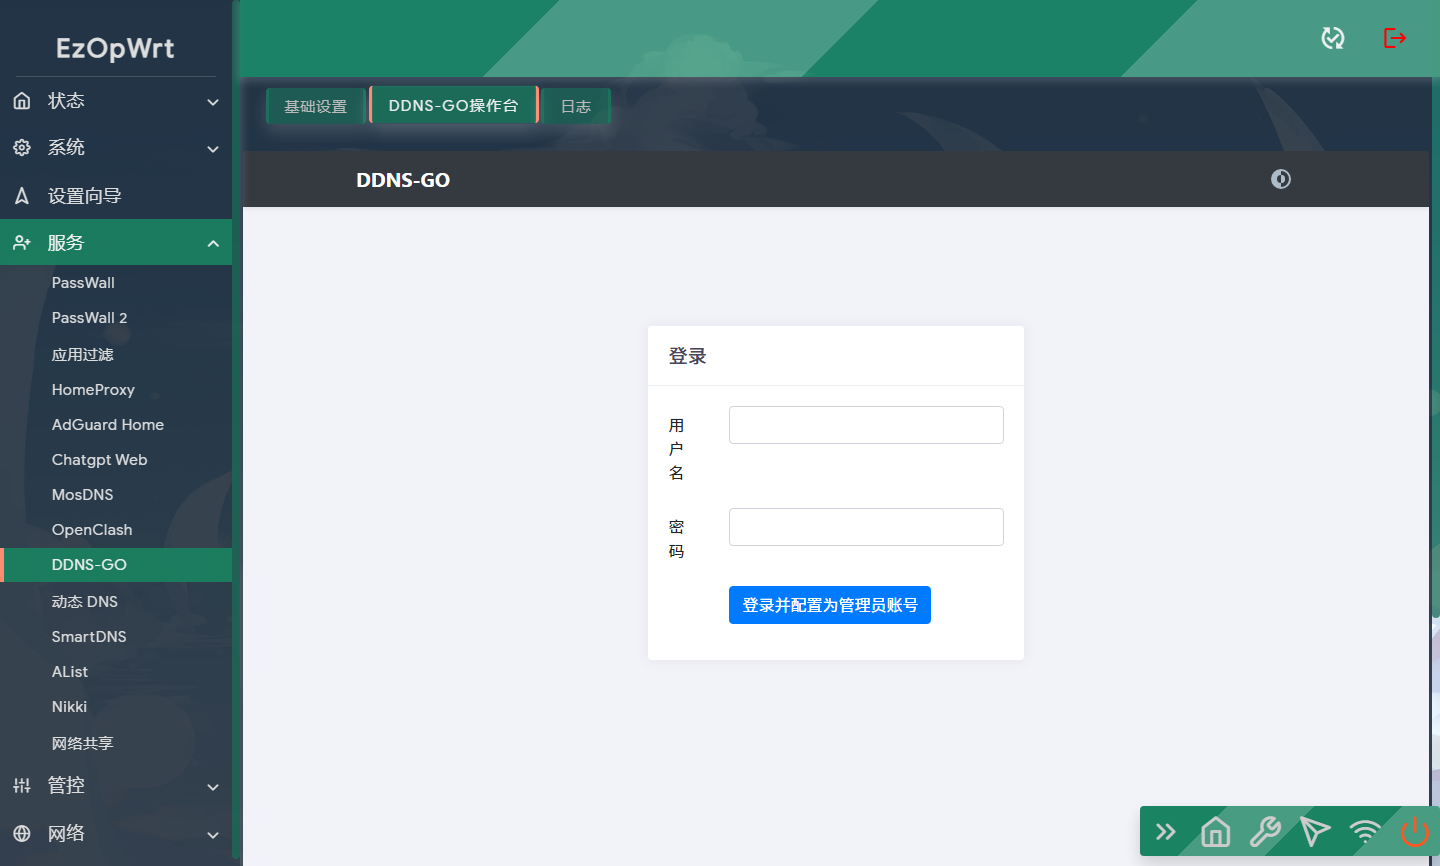
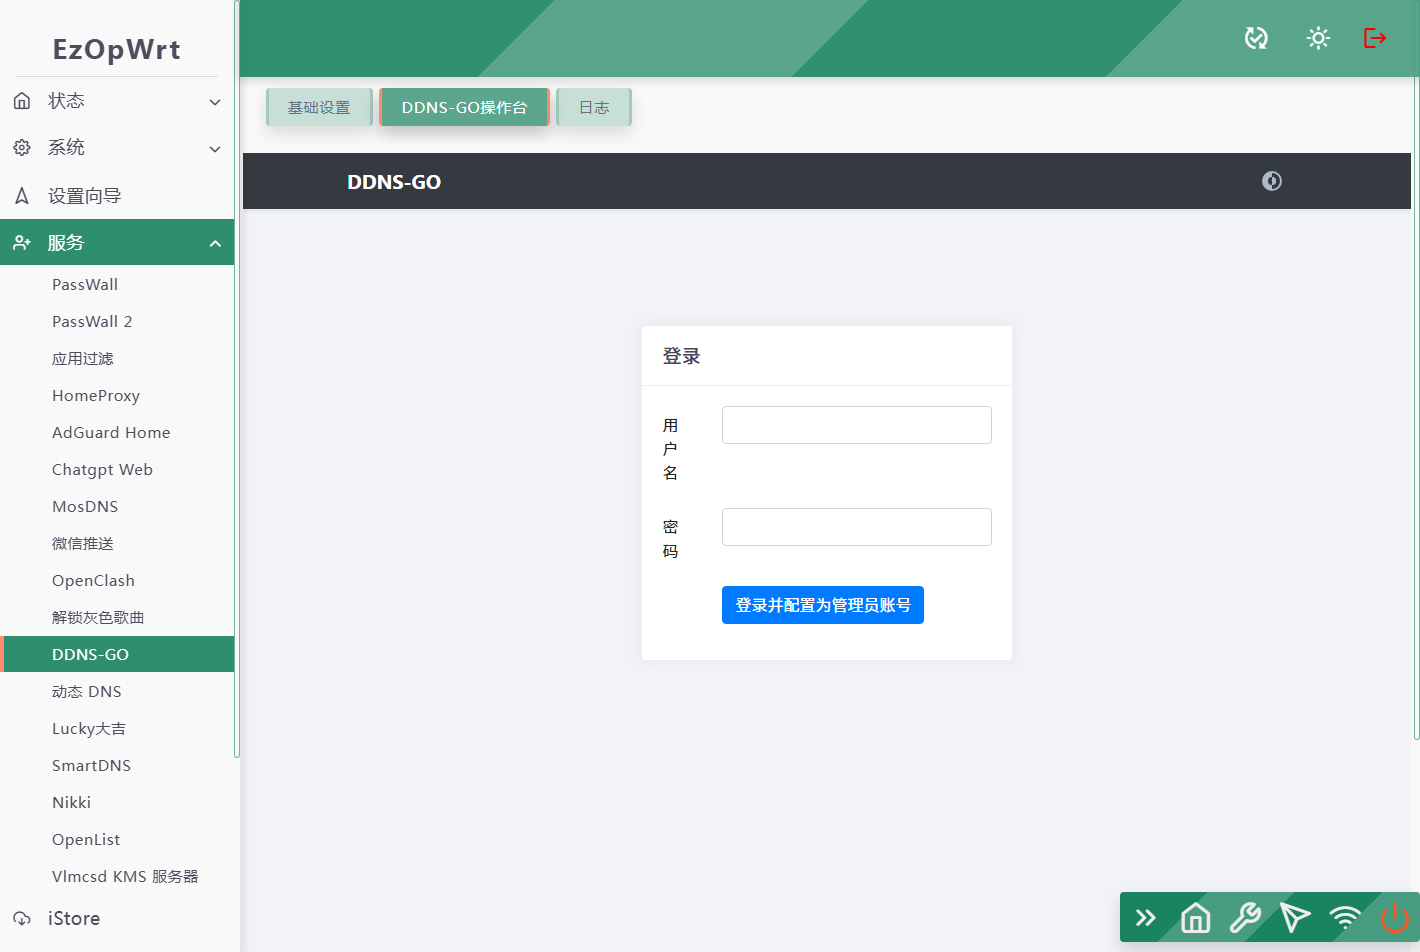
Auto Sync: 2025-10-26 11:34

Changed region(s): [[0.0, 0.0, 1.0, 1.0], [0.4648, 0.343, 0.6507, 0.7483]]

diff --git a/op-ddnsgo/README_CN.md b/op-ddnsgo/README_CN.md
@@ -36,6 +36,11 @@
 
 ## 版本说明
 
+## v2025.10.25 luci-app-ddns-go 1.6.3
+  - 1.增加版本显示
+  - 2.增加在线更新
+  - 3.增加重置用户密码功能
+
 ## 2025.5.14  luci-app-ddns-go 1.5.2
 ## 2025.5.12  luci-app-ddns-go 1.5.1
 - 更新日志：
